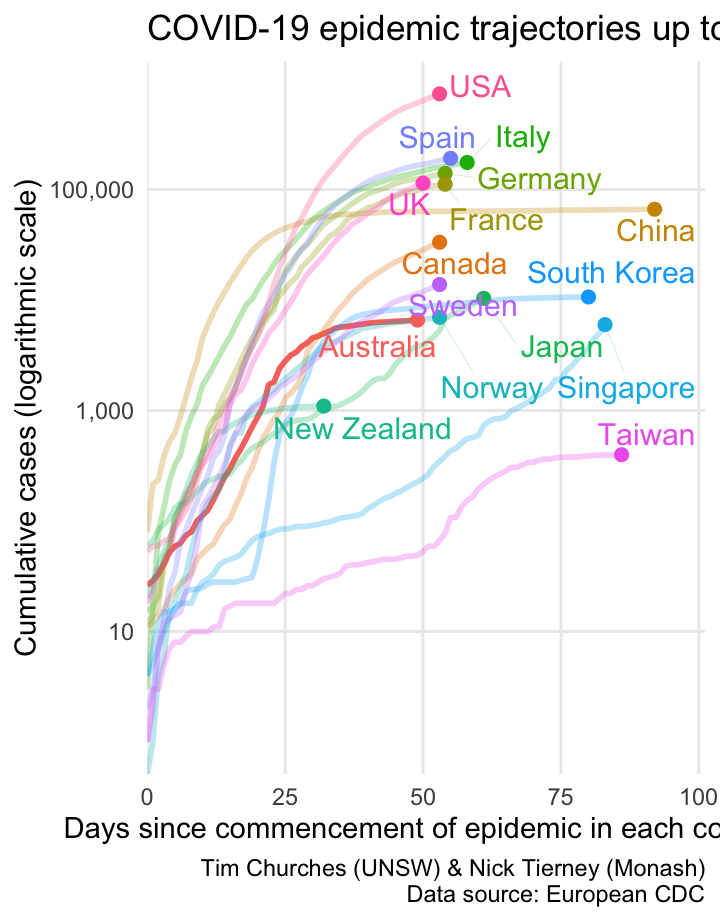
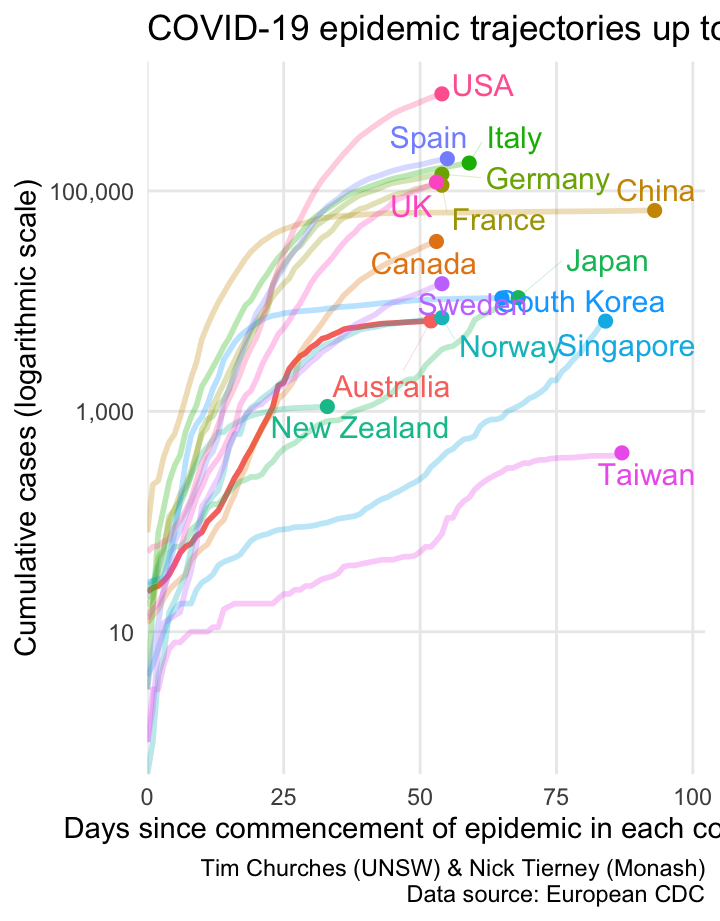
Missed files from daily update

diff --git a/docs/index.html b/docs/index.html
@@ -823,7 +823,7 @@ html, body {
 <span class="navbar-brand">
   OzCoViz
   <span class="navbar-author">
-      last updated 08:42, 20 April 2020
+      last updated 08:52, 21 April 2020
       </span>
 </span>
 
@@ -2650,7 +2650,7 @@ window.FlexDashboardComponents.push({
 <div class="knitr-options" data-fig-width="576" data-fig-height="460">
 
 </div>
-<span class="figsdot" style=" font-size:40pt;">§0o|3[++]z|3 \c|2o|2v|2i|2d|1 \1|19|1 \v|1i|1s|0u|0a|0l|0[-]i|0[-]s|0[-]a|0[-]t|0[-]i|0[-]o|0[-]n|0[-]s|0</span>
+<span class="figsdot" style=" font-size:40pt;">§0o|3z|3 \c|2o|2v|2[++]i|2d|1 \1|19|1 \v|1i|1s|0u|0a|0l|0[-]i|0[-]s|0[-]a|0[-]t|0[-]i|0[-]o|0[-]n|0[-]s|0</span>
 <div id="column" class="section level2">
 <h2>Column</h2>
 <div id="introduction" class="section level3">
@@ -2756,12 +2756,12 @@ window.FlexDashboardComponents.push({
 <td align="left">2020-01-27</td>
 </tr>
 <tr class="even">
-<td align="left">South Korea</td>
-<td align="left">2020-01-30</td>
+<td align="left">Japan</td>
+<td align="left">2020-02-12</td>
 </tr>
 <tr class="odd">
-<td align="left">Japan</td>
-<td align="left">2020-02-18</td>
+<td align="left">South Korea</td>
+<td align="left">2020-02-15</td>
 </tr>
 <tr class="even">
 <td align="left">Italy</td>
@@ -2769,39 +2769,39 @@ window.FlexDashboardComponents.push({
 </tr>
 <tr class="odd">
 <td align="left">Spain</td>
-<td align="left">2020-02-24</td>
+<td align="left">2020-02-25</td>
 </tr>
 <tr class="even">
 <td align="left">Germany</td>
-<td align="left">2020-02-25</td>
+<td align="left">2020-02-26</td>
 </tr>
 <tr class="odd">
 <td align="left">France</td>
-<td align="left">2020-02-25</td>
-</tr>
-<tr class="even">
-<td align="left">Canada</td>
 <td align="left">2020-02-26</td>
 </tr>
-<tr class="odd">
+<tr class="even">
 <td align="left">Norway</td>
 <td align="left">2020-02-26</td>
 </tr>
-<tr class="even">
+<tr class="odd">
 <td align="left">Sweden</td>
 <td align="left">2020-02-26</td>
 </tr>
-<tr class="odd">
+<tr class="even">
 <td align="left">USA</td>
 <td align="left">2020-02-26</td>
 </tr>
+<tr class="odd">
+<td align="left">Canada</td>
+<td align="left">2020-02-27</td>
+</tr>
 <tr class="even">
 <td align="left">UK</td>
-<td align="left">2020-02-29</td>
+<td align="left">2020-02-27</td>
 </tr>
 <tr class="odd">
 <td align="left">Australia</td>
-<td align="left">2020-03-01</td>
+<td align="left">2020-02-28</td>
 </tr>
 <tr class="even">
 <td align="left">New Zealand</td>
